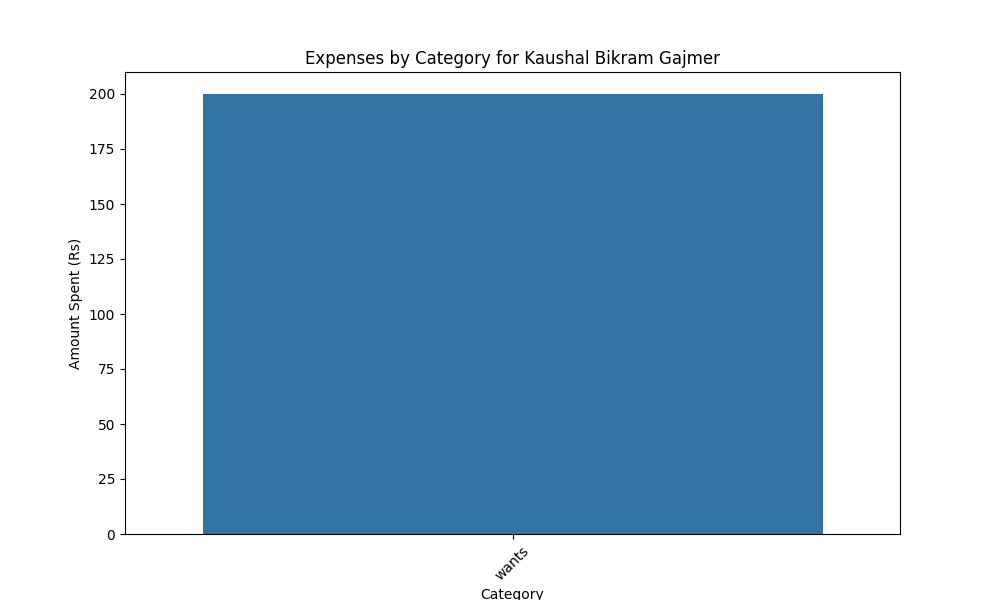
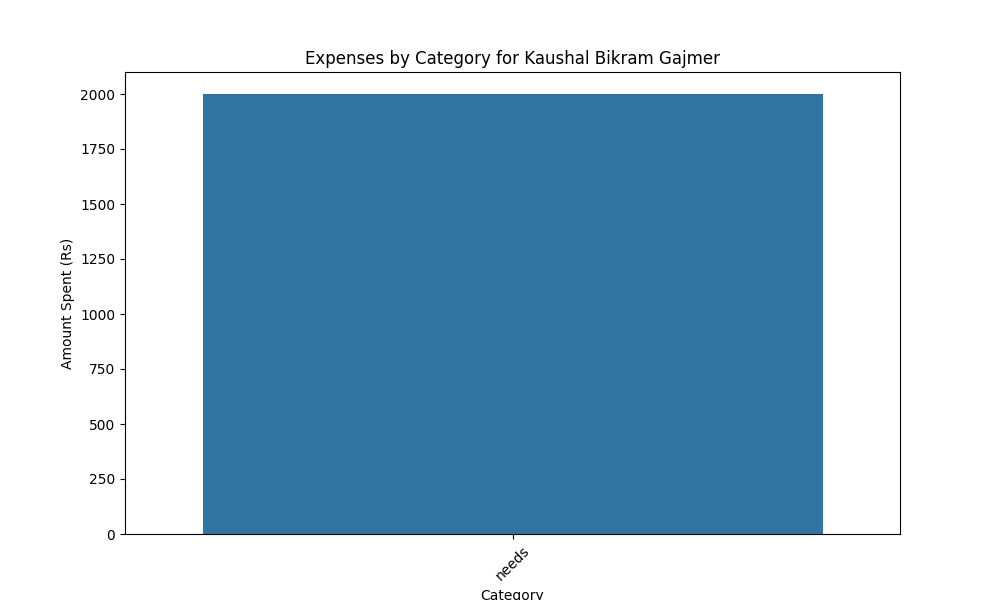
reports try

diff --git a/app.py b/app.py
@@ -877,18 +877,16 @@ def visualize(user_id):
         return redirect(url_for('logout'))
     
     try:
-        
-        cursor = mysql.connection.cursor(MySQLdb.cursors.DictCursor)  # Using DictCursor
-        # Fetching full_name for the user
+        cursor = mysql.connection.cursor(MySQLdb.cursors.DictCursor)
         cursor.execute('SELECT full_name FROM users WHERE id = %s', (user_id,))
         user = cursor.fetchone()
         full_name = user['full_name']
         
-        cursor = mysql.connection.cursor()
         cursor.execute('''
             SELECT date, category, amount, transaction_type 
             FROM transactions 
             WHERE user_id = %s
+            ORDER BY date ASC
         ''', (user_id,))
         data = cursor.fetchall()
 
@@ -901,48 +899,127 @@ def visualize(user_id):
         df['Date'] = pd.to_datetime(df['Date'])
         df['Amount'] = df['Amount'].astype(float)
 
+        # Creating directories
+        reports_dir = os.path.join('static', 'reports')
+        charts_dir = os.path.join('static', 'charts')
+        os.makedirs(reports_dir, exist_ok=True)
+        os.makedirs(charts_dir, exist_ok=True)
+
         # Save to Excel
-        excel_path = os.path.join('OfflineReports', 'reports', f'{full_name}_transactions.xlsx')
-        os.makedirs(os.path.dirname(excel_path), exist_ok=True)
+        excel_filename = f'{full_name}_transactions.xlsx'
+        excel_path = os.path.join(reports_dir, excel_filename)
         df.to_excel(excel_path, index=False)
 
-        # Visualization 1: Bar chart of expenses by category
+        # Setting style for better looking charts
+        plt.style.use('seaborn-v0_8')
+        
+        # Chart 1: Pie chart for expense categories
         expenses_df = df[df['TransactionType'] == 'expense']
         if not expenses_df.empty:
-            plt.figure(figsize=(10, 6))
-            sns.barplot(x='Category', y='Amount', hue='Category', data=expenses_df, estimator=sum)
-            plt.title(f"Expenses by Category for {full_name}")
-            plt.xlabel("Category")
-            plt.ylabel("Amount Spent (Rs)")
-            plt.xticks(rotation=45)
-            chart_path = os.path.join('OfflineReports', 'charts', f'{full_name}_expenses_by_category.png')
-            os.makedirs(os.path.dirname(chart_path), exist_ok=True)
-            plt.savefig(chart_path)
-            plt.close()
+            plt.figure(figsize=(12, 8))
+            expense_summary = expenses_df.groupby('Category')['Amount'].sum()
+            colors = ['#FF6B6B', '#4ECDC4', '#45B7D1', '#96CEB4', '#FFEAA7', '#DDA0DD', '#98D8C8']
             
+            plt.subplot(2, 2, 1)
+            plt.pie(expense_summary.values, labels=expense_summary.index, autopct='%1.1f%%', 
+                   colors=colors, startangle=90)
+            plt.title('Expense Distribution by Category', fontsize=14, fontweight='bold')
+            
+            # Chart 2: Bar chart for monthly expenses
+            plt.subplot(2, 2, 2)
+            expenses_df['Month'] = expenses_df['Date'].dt.to_period('M')
+            monthly_expenses = expenses_df.groupby('Month')['Amount'].sum()
+            bars = plt.bar(range(len(monthly_expenses)), monthly_expenses.values, 
+                          color='#FF6B6B', alpha=0.7)
+            plt.title('Monthly Expenses', fontsize=14, fontweight='bold')
+            plt.xlabel('Month')
+            plt.ylabel('Amount (Rs)')
+            plt.xticks(range(len(monthly_expenses)), 
+                      [str(month) for month in monthly_expenses.index], rotation=45)
+            
+            # Add value labels on bars
+            for bar in bars:
+                height = bar.get_height()
+                plt.text(bar.get_x() + bar.get_width()/2., height + 50,
+                        f'Rs {height:.0f}', ha='center', va='bottom', fontsize=9)
 
-        # Visualization 2: Line chart of transactions over time
-        # Visualization 2: Scatter plot of transactions over time
-        plt.figure(figsize=(10, 6))
-        sns.scatterplot(x='Date', y='Amount', hue='TransactionType', style='TransactionType', size='Amount', data=df)
-        plt.title(f"Transactions Over Time for {full_name}")
-        plt.xlabel("Date")
-        plt.ylabel("Amount (Rs)")
-        plt.xticks(rotation=45)
-        chart_path = os.path.join('OfflineReports', 'charts', f'{full_name}_transactions_over_time.png')
-        os.makedirs(os.path.dirname(chart_path), exist_ok=True)
-        plt.savefig(chart_path)
+        # Chart 3: Income vs Expenses timeline
+        plt.subplot(2, 1, 2)
+        
+        # Group by month for cleaner visualization
+        df['Month'] = df['Date'].dt.to_period('M')
+        monthly_data = df.groupby(['Month', 'TransactionType'])['Amount'].sum().unstack(fill_value=0)
+        
+        if 'income' in monthly_data.columns and 'expense' in monthly_data.columns:
+            x_pos = range(len(monthly_data.index))
+            width = 0.35
+            
+            plt.bar([x - width/2 for x in x_pos], monthly_data['income'], 
+                   width, label='Income', color='#4ECDC4', alpha=0.8)
+            plt.bar([x + width/2 for x in x_pos], monthly_data['expense'], 
+                   width, label='Expenses', color='#FF6B6B', alpha=0.8)
+            
+            plt.title('Monthly Income vs Expenses', fontsize=14, fontweight='bold')
+            plt.xlabel('Month')
+            plt.ylabel('Amount (Rs)')
+            plt.xticks(x_pos, [str(month) for month in monthly_data.index], rotation=45)
+            plt.legend()
+            plt.grid(axis='y', alpha=0.3)
+
+        plt.tight_layout()
+        chart_filename = f'{full_name}_financial_overview.png'
+        chart_path = os.path.join(charts_dir, chart_filename)
+        plt.savefig(chart_path, dpi=300, bbox_inches='tight')
         plt.close()
 
-        flash('Visualizations and Excel file saved successfully', 'success')
+        # Creating spending pattern chart
+        plt.figure(figsize=(12, 6))
+        
+        # Daily spending pattern
+        if not expenses_df.empty:
+            daily_expenses = expenses_df.groupby('Date')['Amount'].sum().reset_index()
+            
+            plt.subplot(1, 2, 1)
+            plt.plot(daily_expenses['Date'], daily_expenses['Amount'], 
+                    marker='o', linewidth=2, markersize=4, color='#FF6B6B')
+            plt.title('Daily Spending Pattern', fontsize=14, fontweight='bold')
+            plt.xlabel('Date')
+            plt.ylabel('Amount (Rs)')
+            plt.xticks(rotation=45)
+            plt.grid(alpha=0.3)
+            
+            # Category-wise spending heatmap
+            plt.subplot(1, 2, 2)
+            category_daily = expenses_df.pivot_table(
+                values='Amount', index='Category', columns=expenses_df['Date'].dt.day, 
+                aggfunc='sum', fill_value=0)
+            
+            if not category_daily.empty:
+                sns.heatmap(category_daily, annot=True, fmt='.0f', cmap='Reds', 
+                           cbar_kws={'label': 'Amount (Rs)'})
+                plt.title('Daily Spending by Category', fontsize=14, fontweight='bold')
+                plt.xlabel('Day of Month')
+                plt.ylabel('Category')
+
+        plt.tight_layout()
+        pattern_filename = f'{full_name}_spending_patterns.png'
+        pattern_path = os.path.join(charts_dir, pattern_filename)
+        plt.savefig(pattern_path, dpi=300, bbox_inches='tight')
+        plt.close()
+
+        # Storing chart filenames in session for template access
+        session['chart_files'] = {
+            'overview': chart_filename,
+            'patterns': pattern_filename,
+            'excel': excel_filename
+        }
+
+        flash('Reports generated successfully! Check the reports section.', 'success')
         return redirect(url_for('dashboard', user_id=user_id))
     
     except Exception as e:
         flash(f'Error generating visualizations: {e}', 'danger')
         return redirect(url_for('dashboard', user_id=user_id))
-    
-    finally:
-        cursor.close()
         
 @app.route('/view_reports/<int:user_id>')
 def view_reports(user_id):
